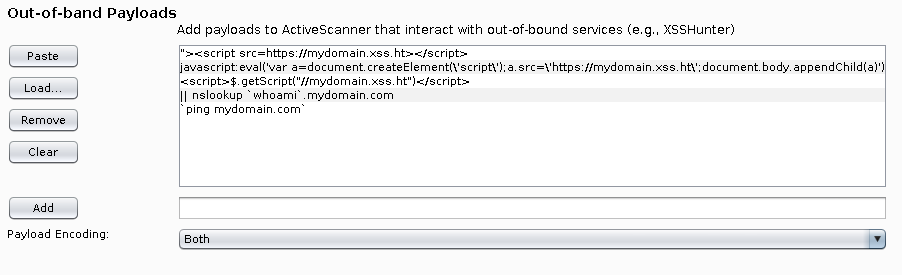
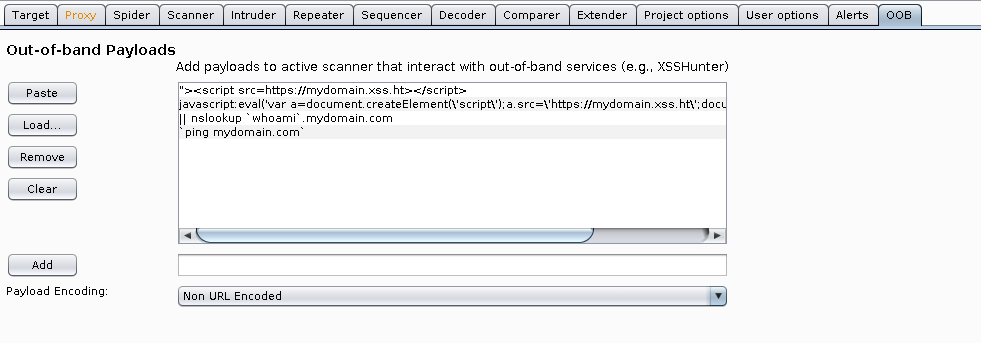
Fixed typos

diff --git a/oob-plugin.py b/oob-plugin.py
@@ -138,7 +138,7 @@ class CustomTab(ITab):
         self.cbTitle.setFont(self.cbTitle.getFont().deriveFont(Font.BOLD))
 
         self.cbSubTitle = JLabel("Add payloads to active scanner that interact "
-                                 "with out-of-bound services (e.g., XSSHunter)")
+                                 "with out-of-band services (e.g., XSSHunter)")
         self.cbSubTitle.setFont(self.cbSubTitle.getFont().deriveFont(12.0))
 
         self.cbList = JList(self.listModel)
